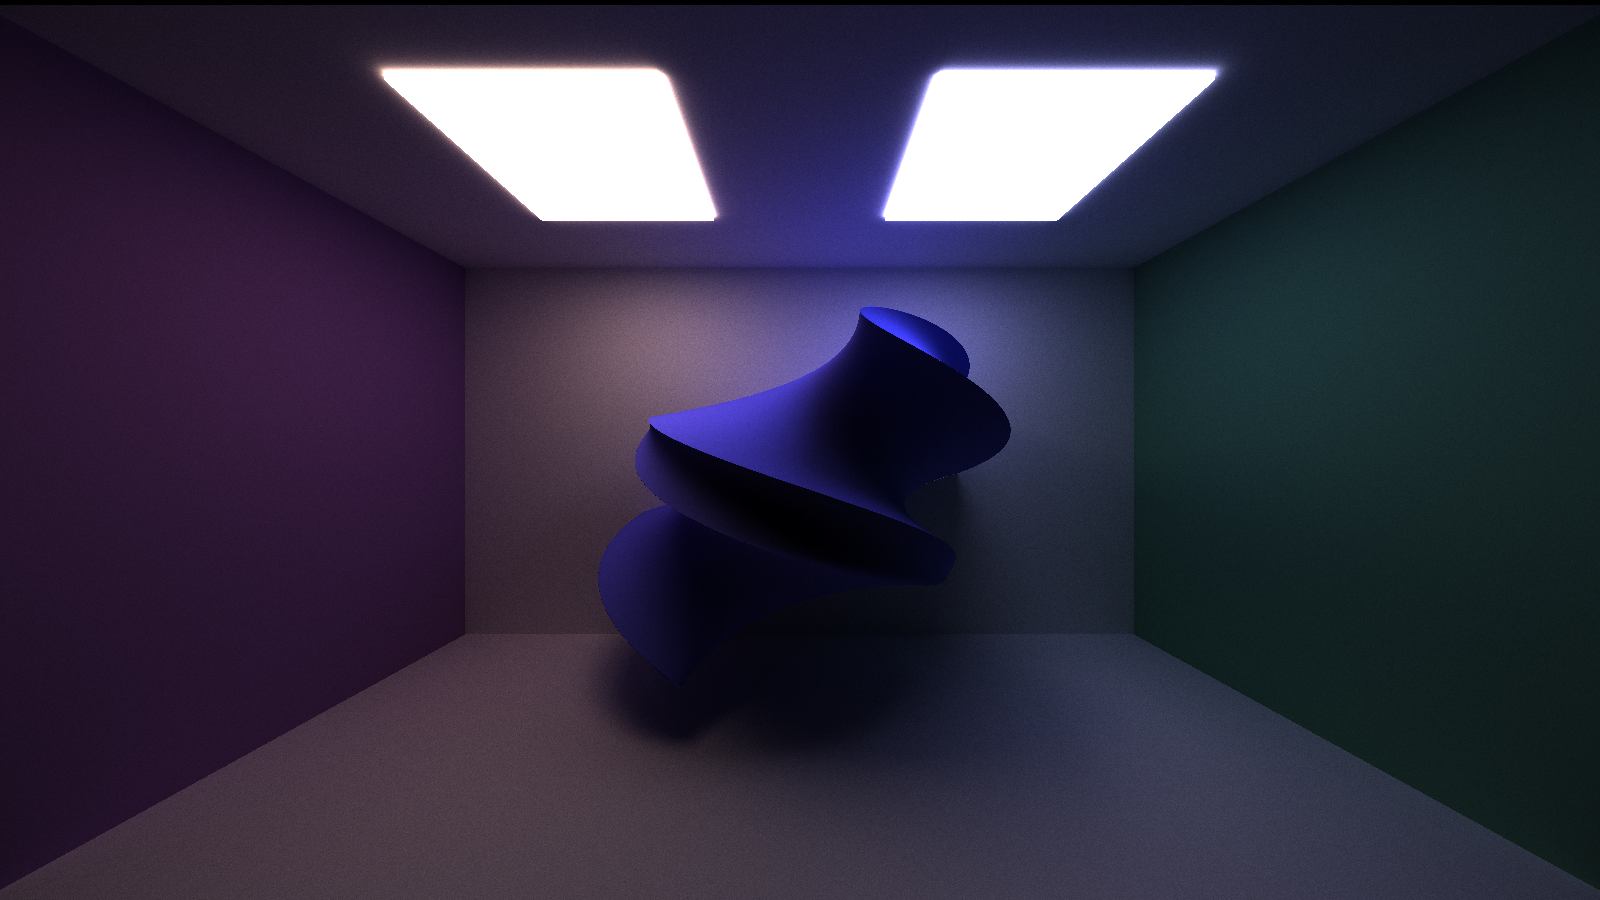
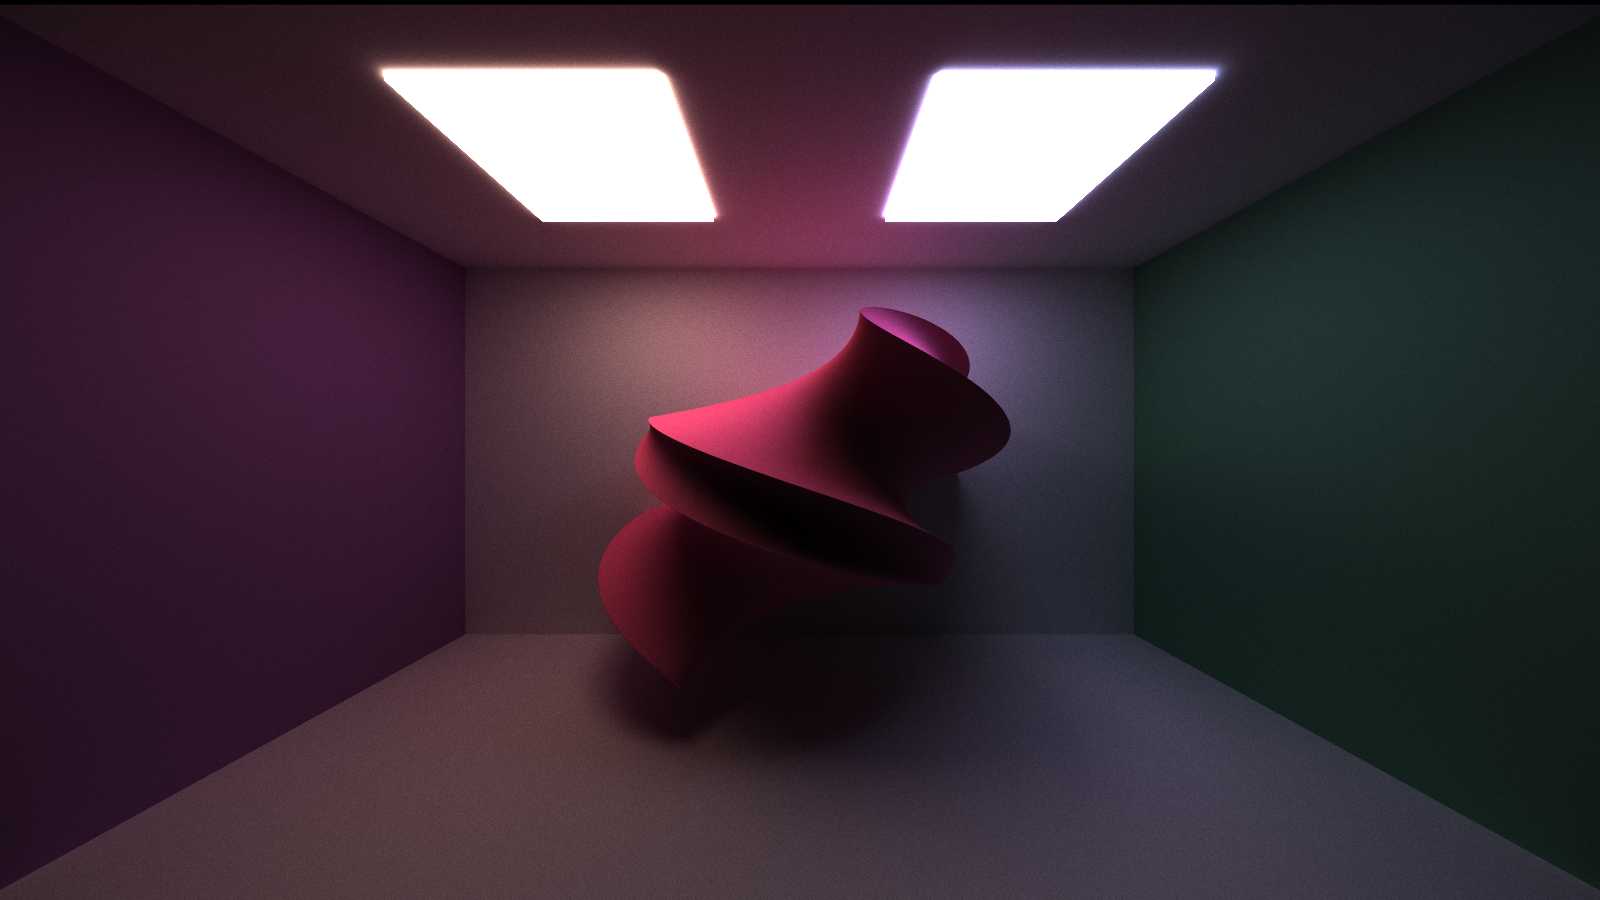
Finish project and README

Changed region(s): [[0.3125, 0.0311, 0.6875, 0.7778], [0.2812, 0.1867, 0.3125, 0.2178]]

diff --git a/src/interactions.h b/src/interactions.h
@@ -162,6 +162,7 @@ __host__ __device__ void calculateReflect(PathSegment& pathSegment,
     r.direction = reflectedDir;
 
     if (!handleProceduralTextures(pathSegment, intersect, normal, m)) {
+        // artificially color the material
         if (m.specular.exponent > 0) {
             glm::vec3 specularColor = m.specular.color;
             r.direction = reflectedDir;
@@ -196,7 +197,12 @@ __host__ __device__ void calculateRefract(PathSegment& pathSegment,
         r.direction = refractedDir;
     }
 
-    handleProceduralTextures(pathSegment, intersect, normal, m);
+    if (!handleProceduralTextures(pathSegment, intersect, normal, m)) {
+        if (m.specular.exponent > 0) {
+            glm::vec3 specularColor = m.specular.color;
+            pathSegment.color *= specularColor;
+        }
+    }
 }
 __host__ __device__ void calculateGlass(PathSegment& pathSegment,
     glm::vec3 intersect,
@@ -236,7 +242,12 @@ __host__ __device__ void calculateGlass(PathSegment& pathSegment,
         r.direction = refractedDir;
     }
 
-    handleProceduralTextures(pathSegment, intersect, normal, m);
+    if (!handleProceduralTextures(pathSegment, intersect, normal, m)) {
+        if (m.specular.exponent > 0) {
+            glm::vec3 specularColor = m.specular.color;
+            pathSegment.color *= specularColor;
+        }
+    }
 }
 
 /**

diff --git a/src/main.cpp b/src/main.cpp
@@ -181,11 +181,14 @@ void mousePositionCallback(GLFWwindow* window, double xpos, double ypos) {
     theta -= (ypos - lastY) / height;
     theta = std::fmax(0.001f, std::fmin(theta, PI));
     camchanged = true;
+    //cout << "Look at: " << renderState->camera.lookAt.x << ", " << renderState->camera.lookAt.y << ", " << renderState->camera.lookAt.z << endl;
+    //cout << "Up: " << renderState->camera.up.x << ", " << renderState->camera.up.y << ", " << renderState->camera.up.z << endl;
   }
   else if (rightMousePressed) {
     zoom += (ypos - lastY) / height;
     zoom = std::fmax(0.1f, zoom);
     camchanged = true;
+    //cout << "Eye: " << renderState->camera.position.x << ", " << renderState->camera.position.x << ", " << renderState->camera.position.x << endl;
   }
   else if (middleMousePressed) {
     renderState = &scene->state;
@@ -200,7 +203,9 @@ void mousePositionCallback(GLFWwindow* window, double xpos, double ypos) {
     cam.lookAt -= (float) (xpos - lastX) * right * 0.01f;
     cam.lookAt += (float) (ypos - lastY) * forward * 0.01f;
     camchanged = true;
+    //cout << "Eye: " << renderState->camera.position.x << ", " << renderState->camera.position.y << ", " << renderState->camera.position.z << endl;
   }
+
   lastX = xpos;
   lastY = ypos;
 }

diff --git a/src/intersections.h b/src/intersections.h
@@ -259,8 +259,10 @@ __host__ __device__ float implicitSurfaceIntersectionTest(Geom surface, Ray r,
         switch (surface.implicit.type) {
         case TANGLECUBE:
             dist = scale * tanglecubeFunction(localPoint / scale);
+            break;
         case TWIST:
             dist = scale * twistFunction(localPoint / scale);
+            break;
         }
 
         if (dist < I_EPSILON) {

diff --git a/README.md b/README.md
@@ -7,6 +7,10 @@ CUDA Path Tracer
   * [LinkedIn](https://www.linkedin.com/in/liujanine/), [personal website](https://www.janineliu.com/).
 * Tested on: Windows 10, i7-10750H CPU @ 2.60GHz 16GB, GeForce RTX 2070 8192 MB (personal computer)
 
+![](img/presentable/everything.png)
+
+![](img/presentable/everything_marked.png)
+
 Pathtracing is a rendering technique that traces numerous rays of light through a 3D scene. Rays start from the camera, pass through the space of the screen, and bounce between objects in the world; these bounces are determined by the properties of the materials they intersect.
 
 In addition to building a GPU-based pathtracer, this project involved implementing optimizations and other features, including:
@@ -21,7 +25,6 @@ In addition to building a GPU-based pathtracer, this project involved implementi
 This pathtracer draws upon the [Physically-Based Rendering textbook](http://www.pbr-book.org/) for reference.
 
 # Features
-
 
 ## Materials
 
@@ -59,17 +62,18 @@ We can jitter the initial ray's direction by a small epsilon so it samples aroun
 
 ## OBJ Loading
 
-To allow arbitrary meshes to be rendered by the pathtracer, I used the [TinyObj loader](https://github.com/tinyobjloader/tinyobjloader) to parse OBJ files as geometry in the scene. These are broken down into triangles of the same material that are tested against for intersections with every ray.
+To allow arbitrary meshes to be rendered by the pathtracer, I used the [TinyObjLoader](https://github.com/tinyobjloader/tinyobjloader) library to parse OBJ files as geometry in the scene. These are broken down into triangles of the same material that are tested against for intersections with every ray.
+
+| ![](img/presentable/dogs.png) | 
+|:--:| 
+| Dog model from [here](https://www.cgtrader.com/free-3d-print-models/house/decor/doberman-dog-6140e3ce-7726-4c90-8133-e924d1f8ba49); 254 triangles each.|
 
 Of course, the more complex the mesh, the more triangles it has, and the longer it takes to render the scene. In the future, I would like to implement a hierarchal data structure to speed up the rendering process.
 
 | ![](img/presentable/hearts.png) | 
 |:--:| 
-| Heart model from [here](https://www.turbosquid.com/3d-models/iconic-heart-3ds-free/389728); 1792 triangles.|
+| Heart model from [here](https://www.turbosquid.com/3d-models/iconic-heart-3ds-free/389728); 1792 triangles each.|
 
-| ![](img/presentable/dogs.png) | 
-|:--:| 
-| Dog model from [here](https://www.cgtrader.com/free-3d-print-models/house/decor/doberman-dog-6140e3ce-7726-4c90-8133-e924d1f8ba49); 254 triangles.|
 
 ## Procedural Shapes
 
@@ -90,18 +94,27 @@ For an implicit surface with holes like this, a small enough step is required to
 | Image taken from [GPU Gems 2: Chapter 8](https://developer.nvidia.com/gpugems/gpugems2/part-i-geometric-complexity/chapter-8-pixel-displacement-mapping-distance-functions).|
 
 
-A signed distance function also defines a surface depending on which points make its value equal zero, but its other values have utility: they inform us **how far a point is from the surface at any point in space**. This defines how large of a step we can take when we march along the ray, clearing a distance within a sphere just like the diagram. Surfaces rendered using spheremarching can be visualized much more efficiently than surfaces rendered with regular raymarching (depending on SDF calculation complexity, of course).
+A signed distance function also defines a surface depending on which points make its value equal zero, but its other values have utility: they inform us **how far a point is from the surface at any point in space**. This defines how large of a step we can take when we march along the ray, clearing a distance within a sphere just like the diagram. Surfaces rendered using spheremarching can be visualized much more efficiently than surfaces rendered with regular raymarching (though performance can depend on SDF calculation complexity, of course).
+
+![](img/presentable/twist.png)
+
+The "twist" surface above is a signed distance function that takes an average of **114.568 ms** per iteration. The tanglecube takes an average of **147.546 ms** per iteratio.
 
 ## Procedural Textures
 
 In addition to procedural shapes, I implemented three procedural textures that can be used for any object. These textures are coded using **noise functions** from another [procedural graphics project](https://j9liu.github.io/terraingen/). My textures depend on the intersection point and normal to determine how to color their objects.
 
+![](img/presentable/allprocedtextures.png)
 
+These can also be applied to the specular and refractive materials, though due to the different behavior of the light rays, the refractive materials will look different from the intended appearance.
 
-These can also be applied to the specular and refractive materials, though due to the different behavior of the light rays, they may not always look aesthetically pleasing.
+![](img/presentable/procedtexture1.png)
+![](img/presentable/procedtexture2.png)
+![](img/presentable/procedtexture3.png)
 
+Of course, these can be combined with the procedural shapes to achieve a wholly procedural visual object.
 
-
+![](img/presentable/shapesandtextures.png)
 
 # Performance Analysis
 
@@ -116,7 +129,7 @@ The measurements for these performance changes are taken from the pathtracing pr
 
 ![](img/presentable/diffuse.png)
 
-## Methods
+## Data-Gathering Methods
 Using the Performance Timer class provided in the [previous assignment](https://github.com/j9liu/Project2-Stream-Compaction/), I surrounded my `pathtrace` call with calls to start and stop the CPU timer. I then took the average of all these iterations to determine what the average iteration time would be. To save time, I limited the number of these recorded iterations to 20% of the total number of samples.
 
 For the Stream Compaction section, I simply collected data for the first iteration of the pathtracing process.
@@ -160,6 +173,12 @@ The performance of all the optimizations combined is shown below.
 # Bugs and Bloopers
 ## Initial Implementation Bloopers
 
+During the first coding steps of the pathtracer (actually getting the basics to work), my bloopers contained very bright images that made it appear like there was too much light in the scene:
+
+![](img/bloopers/initial1.png)
+![](img/bloopers/initial2.png)
+![](img/bloopers/initial3.png)
+
 ## Stream Compaction-less Issues
 
 My pathtracer cannot render images properly without using stream compaction. Here are two bloopers from when I was trying to debug this issue:
@@ -188,3 +207,17 @@ While implementing depth of field, I got some wonky renders that made it appear 
 I call this one, "Who knew OBJS were made of trapezoids?"
 
 ![](img/bloopers/obj.png)
+
+![](img/bloopers/obj2.png)
+
+## Procedural Shapes Bloopers
+
+Rendering the tanglecube takes so much effort that my computer sometimes cannot handle it. In one of those cases, I got a very blocky, low resolution render that was  strangely curved around the tanglecube.
+
+![](img/bloopers/badtanglecube.png)
+
+## Sampling Bloopers
+
+I attempted to implement stratified sampling (as opposed to the purely random sampling) for the hemispheres in diffuse shading, but kept getting an interesting result similar to this.
+
+![](img/bloopers/sampling.png)
